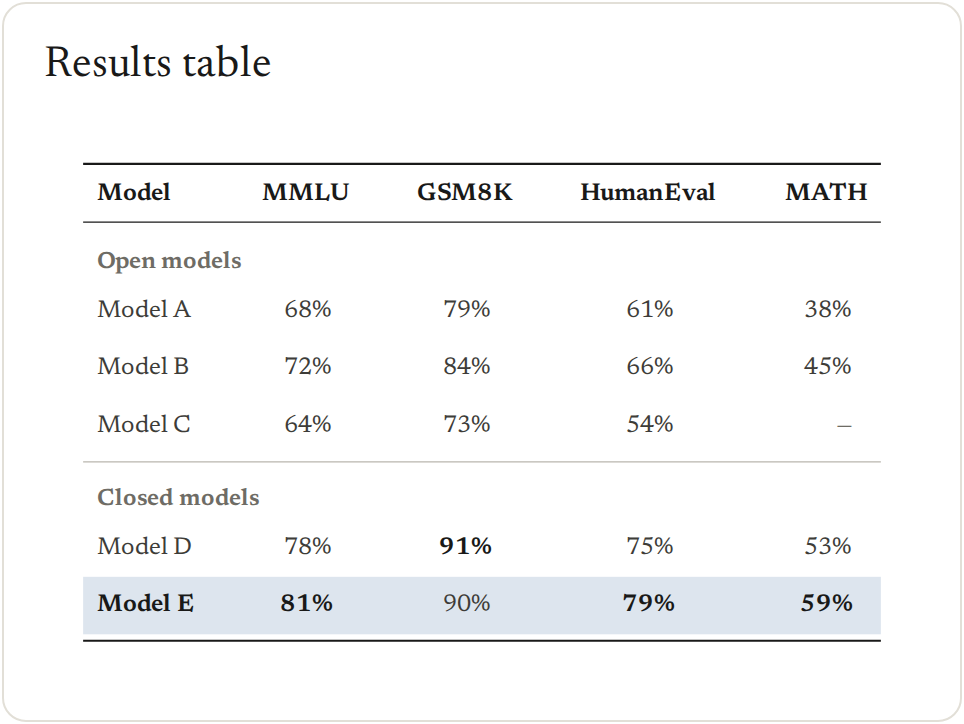
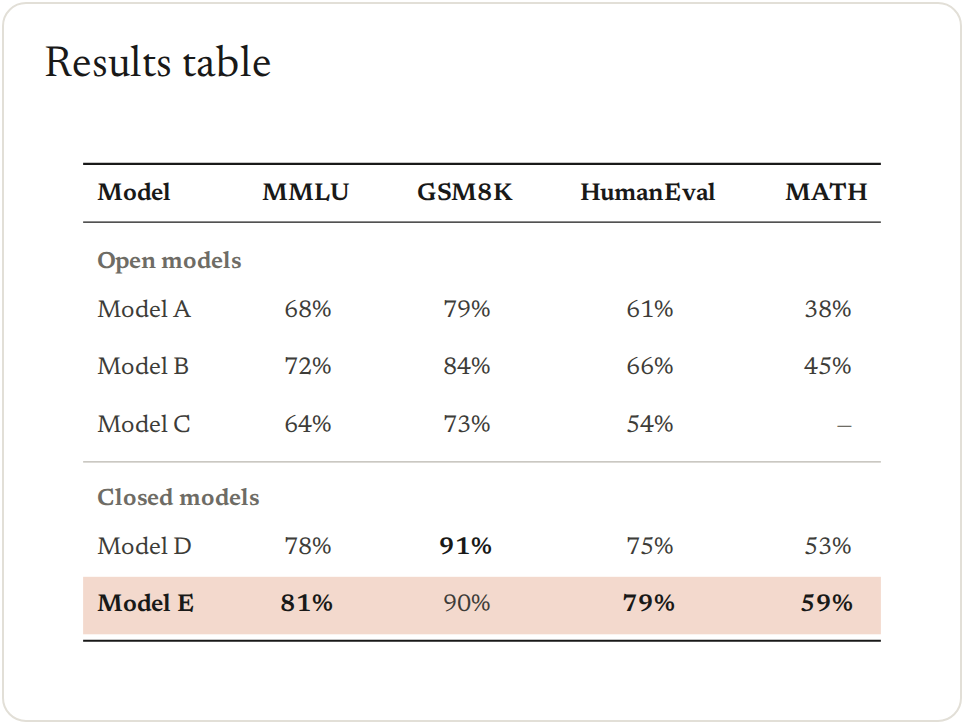
One accent: a chart's single color is orange, as the intervention's

Changed region(s): [[0.0622, 0.7901, 0.9336, 0.8812]]

diff --git a/src/viz/charts/common.py b/src/viz/charts/common.py
@@ -16,6 +16,9 @@ class _Unset:
 UNSET = _Unset()
 
 
+ACCENT = "intervention"  # a chart's one color when nothing else sets it: the intervention role's orange
+
+
 def resolve_unit(unit) -> tuple[str, bool]:
     """Percent is the default unit; returns (unit, whether the caller set it)."""
     if unit is UNSET:
@@ -30,8 +33,8 @@ def _muted(k: int) -> str:
 
 def series_colors(ns: int, colors=None, names: Sequence[str] | None = None, highlight=None) -> list[str]:
     """Colors for ns series: a list, a {series name: color} dict, else the color roles (viz.set_roles: named series
-    get their role's color and the rest take the muted shades in turn), else the default order (dark, blue, plum,
-    ...). highlight: series that keep their color; the others go gray."""
+    get their role's color and the rest take the muted shades in turn), else the default order (orange, blue, sage,
+    ...; one series alone is orange). highlight: series that keep their color; the others go gray."""
     names = list(names or [])
     gray = th.color(roles.MUTED)
     specific = [True] * ns
@@ -47,7 +50,7 @@ def series_colors(ns: int, colors=None, names: Sequence[str] | None = None, high
                     specific[i] = False
                     k += 1
         elif ns == 1:
-            out = [th.color("blue")]
+            out = [th.color(ACCENT)]
         else:
             out = [th.color(c) for c in th.SERIES[:ns]] + [_muted(k) for k in range(max(0, ns - len(th.SERIES)))]
     elif isinstance(colors, str):
@@ -108,10 +111,10 @@ def as_set(x) -> set[str]:
     return {str(v) for v in x}
 
 
-def row_colors(labels: list[str], *, color=None, colors=None, highlight=None, accent: str = "blue") -> list[str]:
+def row_colors(labels: list[str], *, color=None, colors=None, highlight=None, accent: str = ACCENT) -> list[str]:
     """Per-bar colors for a single series: explicit per-label colors; else the label's color role (viz.set_roles),
     with every label that has no role muted (highlight= then only bolds a label, it doesn't recolor it); else the
-    accent on highlighted rows and gray for the rest; else a single color (blue)."""
+    accent on highlighted rows and gray for the rest; else a single color (the accent, orange)."""
     hl = as_set(highlight)
     by_role = [roles.role_color(lab) for lab in labels]
     in_play = any(by_role)
@@ -132,7 +135,7 @@ def row_colors(labels: list[str], *, color=None, colors=None, highlight=None, ac
             out.append(th.color(color or roles.MUTED))
             continue
         else:
-            out.append(th.color(color or "blue"))
+            out.append(th.color(color or ACCENT))
             continue
         own.append(i)
     rest = [i for i in range(len(labels)) if i not in own]

diff --git a/src/viz/charts/heatmap.py b/src/viz/charts/heatmap.py
@@ -53,13 +53,13 @@ def scale_color(v: float, scale: str, lo: float, hi: float, center: float | None
     return th.mix(a, b, t), t
 
 
-def heatmap(data, *, rows=None, cols=None, scale="blue", domain=None, center=None, unit=UNSET, decimals=None,
+def heatmap(data, *, rows=None, cols=None, scale="coral", domain=None, center=None, unit=UNSET, decimals=None,
             fmt=None, signed=False, col_groups=None, sort=None, cell_width=None, cell_height=30, values=True,
             threshold=0.55, low="coral", high="blue", title=None, subtitle=None, frame=None,
             width=None) -> Figure:
     """Heatmap table.
 
-    scale: "blue" (default), "coral", "sage", "green", or "diverging" (`low` color below `center`, `high` above;
+    scale: "coral" (default, the accent's hue), "blue", "sage", "green", or "diverging" (`low` color below `center`, `high` above;
     coral below and blue above by default, so pass low="blue", high="coral" when higher is worse).
     col_groups: [("Keep it at a cost", ["At 10% lower score", "At 30% lower score"])] puts a muted heading
     with a rule over those columns. sort: a column name to sort rows by (descending), or a key function.

diff --git a/tests/test_colors.py b/tests/test_colors.py
@@ -37,7 +37,7 @@ DATA = {"Closed book": 59, "Longer prompt": 55, "With search": 12}
 
 
 def test_roles_color_the_named_conditions_and_mute_the_rest():
-    assert drawn(vl.hbar(DATA)) == ["blue", "blue", "blue"]
+    assert drawn(vl.hbar(DATA)) == ["coral", "coral", "coral"]
     vl.set_roles(control="Closed book", intervention="With search")
     assert drawn(vl.hbar(DATA)) == ["gray", "gray", "coral"]
     assert drawn(vl.bars(DATA)) == ["gray", "gray", "coral"]
@@ -94,7 +94,7 @@ def test_explicit_colors_win_and_highlight_only_bolds_when_roles_are_in_play():
     assert drawn(f) == ["gray", "gray", "gray"]
     assert re.search(r'font-weight="600"[^>]*>Longer prompt<', f.svg())
     vl.set_roles()
-    assert drawn(vl.hbar(DATA, highlight="With search")) == ["gray", "gray", "blue"]  # no roles: the accent
+    assert drawn(vl.hbar(DATA, highlight="With search")) == ["gray", "gray", "coral"]  # no roles: the accent
 
 
 def test_panels_pass_their_roles_to_each_panel():

diff --git a/src/viz/charts/bars.py b/src/viz/charts/bars.py
@@ -15,7 +15,7 @@ from .common import UNSET, as_set, plot_height, resolve_unit, row_colors, series
 from .dist import attach_runs, dark, dots, run_values
 
 
-def bars(data, *, series=None, color=None, colors=None, highlight=None, accent="blue", sort=None,
+def bars(data, *, series=None, color=None, colors=None, highlight=None, accent="intervention", sort=None,
          domain=None, ticks=None, step=None, unit=UNSET, decimals=None, fmt=None, signed=False, tick_format=None,
          ci=None, runs=None, ref=None, ref_label=None, ylabel=None, height=None, values=True, value_labels="all", grid=False,
          bar_width=None, title=None, subtitle=None, legend=None, legend_position=None, frame=None,

diff --git a/src/viz/charts/cards.py b/src/viz/charts/cards.py
@@ -224,7 +224,7 @@ def episodes(items, *, cols=2, title=None, subtitle=None, frame=None, width=None
 
 # ---------------------------------------------------------------------- tool definition
 
-def code_card(name: str, params: Mapping[str, str] | None = None, description: str = "", *, accent="blue",
+def code_card(name: str, params: Mapping[str, str] | None = None, description: str = "", *, accent="intervention",
               title=None, subtitle=None, frame=None, width=None) -> Figure:
     """A tool or function definition: the signature in monospace, then its description in serif.
     params: {"reason": "What you'd like to discuss."} prints as reason: "What you'd like to discuss."."""

diff --git a/src/viz/charts/violin.py b/src/viz/charts/violin.py
@@ -49,7 +49,7 @@ def density(vals: list[float], bandwidth: float) -> list[tuple[float, float]]:
     return [(g, c * sum(wt * math.exp(-0.5 * ((g - v) / bandwidth) ** 2) for v, wt in pts)) for g in grid]
 
 
-def violin(data, *, series=None, color=None, colors=None, highlight=None, accent="blue", scale="area",
+def violin(data, *, series=None, color=None, colors=None, highlight=None, accent="intervention", scale="area",
            bandwidth=None, horizontal=False, domain=None, ticks=None, step=None, zero=None, unit=UNSET,
            decimals=None, fmt=None, signed=False, tick_format=None, values=True, ref=None, ref_label=None,
            ylabel=None, xlabel=None, height=None, grid=False,

diff --git a/tests/test_likert_table.py b/tests/test_likert_table.py
@@ -404,7 +404,7 @@ def test_intervals_read_plus_minus_when_symmetric_and_as_brackets_when_not():
 
 def test_highlight_sets_the_row_on_a_tint_of_its_role_color():
     plain = table_body(BENCH, columns=COLS, highlight="Model E").svg
-    assert [r.fill for r in rects(plain)] == [th.TINT["blue"]]  # the accent's tint
+    assert [r.fill for r in rects(plain)] == [th.TINT["coral"]]  # the accent's tint
     roled = table_body(BENCH, columns=COLS, highlight="Model B", roles={"intervention": "Model B"}).svg
     assert [r.fill for r in rects(roled)] == [th.TINT["coral"]]
     label = next(t for t in texts(roled) if t.s == "Model B")

diff --git a/src/viz/charts/hbar.py b/src/viz/charts/hbar.py
@@ -17,7 +17,7 @@ from .common import UNSET, as_set, resolve_unit, row_colors, series_colors
 from .dist import attach_runs, dark, dots, run_values
 
 
-def hbar(data, *, series=None, color=None, colors=None, highlight=None, accent="blue", sort=False,
+def hbar(data, *, series=None, color=None, colors=None, highlight=None, accent="intervention", sort=False,
          domain=None, ticks=None, step=None, unit=UNSET, decimals=None, fmt=None, signed=False,
          notes=None, ci=None, runs=None, ref=None, ref_label=None, values=True, axis=True, tick_format=None,
          row_height=None, bar_height=None, label_width=None,

diff --git a/src/viz/charts/ecdf.py b/src/viz/charts/ecdf.py
@@ -37,7 +37,7 @@ def _steps(vals: list[float], complementary: bool) -> list[tuple[float, float]]:
     return pts
 
 
-def ecdf(data, *, color=None, colors=None, highlight=None, accent="blue", domain=None, ticks=None, step=None,
+def ecdf(data, *, color=None, colors=None, highlight=None, accent="intervention", domain=None, ticks=None, step=None,
          unit="", tick_format=None, decimals=None, fmt=None, complementary=False, ref=None, ref_label=None,
          values=True, xlabel=None, ylabel=None, height=None,
          title=None, subtitle=None, legend=None, legend_position=None, frame=None, width=None) -> Figure:

diff --git a/src/viz/charts/dotplot.py b/src/viz/charts/dotplot.py
@@ -16,7 +16,7 @@ from ..figure import Body, Figure
 from .common import UNSET, as_set, resolve_unit, row_colors, series_colors
 
 
-def dotplot(data, *, series=None, color=None, colors=None, highlight=None, accent="blue", sort=False,
+def dotplot(data, *, series=None, color=None, colors=None, highlight=None, accent="intervention", sort=False,
             domain=None, ticks=None, step=None, zero=False, unit=UNSET, decimals=None, fmt=None, signed=False,
             tick_format=None, ci=None, ref=None, ref_label=None, notes=None, values=True, xlabel=None,
             row_height=None, dot_size=None, label_width=None,

diff --git a/src/viz/charts/strip.py b/src/viz/charts/strip.py
@@ -40,7 +40,7 @@ def _intervals(ci, labels: list[str], vals: list[list[list[float]]], ns: int):
     return out
 
 
-def strip(data, *, series=None, color=None, colors=None, highlight=None, accent="blue", mean=True, ci=None,
+def strip(data, *, series=None, color=None, colors=None, highlight=None, accent="intervention", mean=True, ci=None,
           horizontal=False, domain=None, ticks=None, step=None, zero=None, unit=UNSET, decimals=None, fmt=None,
           signed=False, tick_format=None, values=True, ref=None, ref_label=None, ylabel=None, xlabel=None,
           dot_size=None, height=None, grid=False,

diff --git a/src/viz/charts/box.py b/src/viz/charts/box.py
@@ -14,7 +14,7 @@ from .dist import cat_frame, dark, dots, samples, summary_labels, swarm, tukey
 LABEL = 12.5
 
 
-def box(data, *, series=None, color=None, colors=None, highlight=None, accent="blue", points=False,
+def box(data, *, series=None, color=None, colors=None, highlight=None, accent="intervention", points=False,
         horizontal=False, domain=None, ticks=None, step=None, zero=None, unit=UNSET, decimals=None, fmt=None,
         signed=False, tick_format=None, values=True, ref=None, ref_label=None, ylabel=None, xlabel=None,
         height=None, box_width=None, grid=False,
